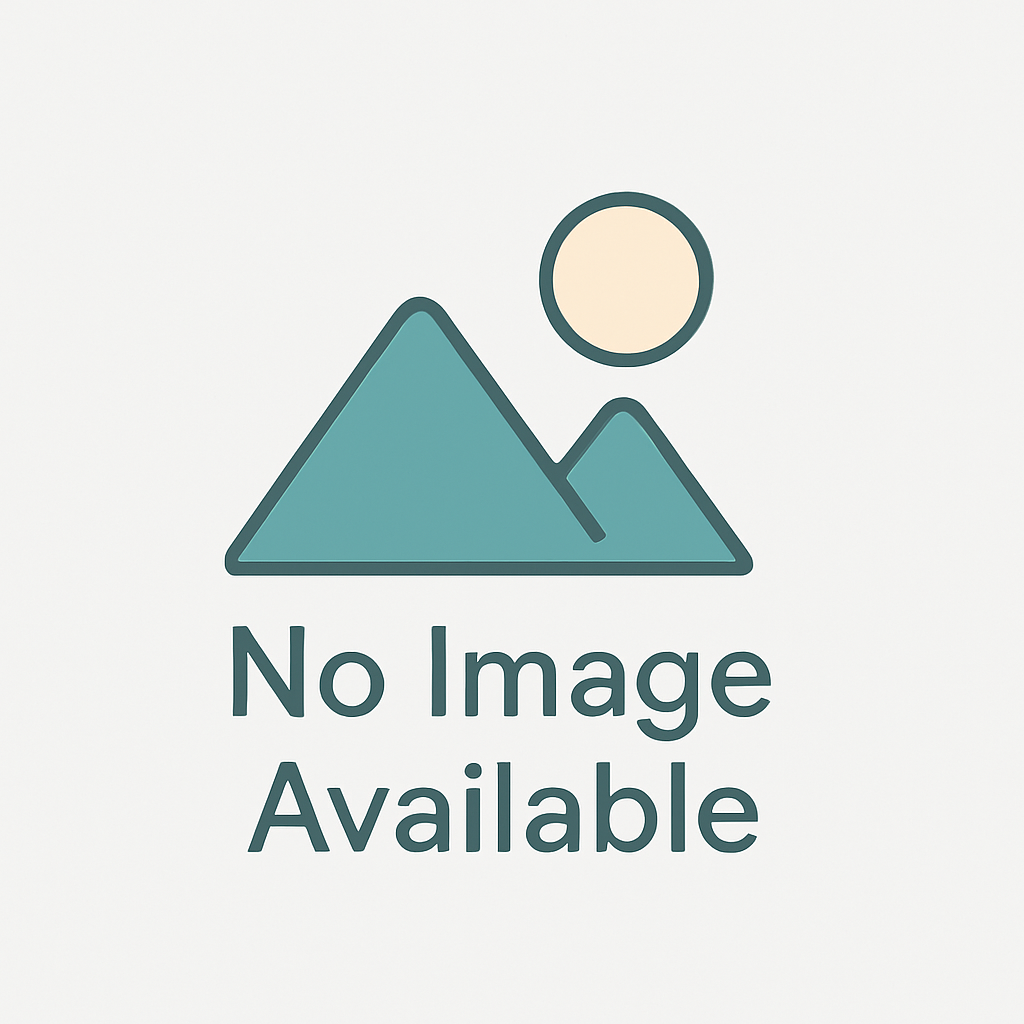
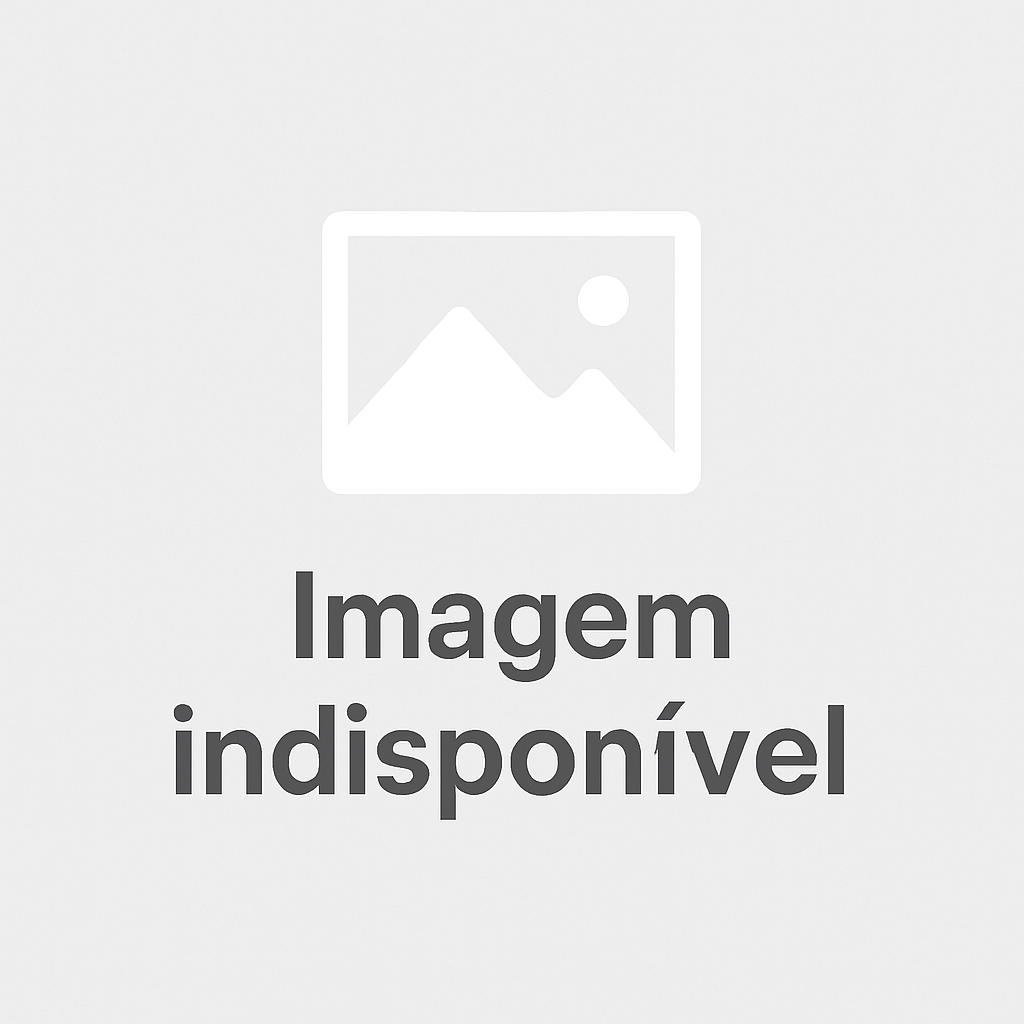
changes

Changed region(s): [[0.1562, 0.1875, 0.8438, 0.8438]]

diff --git a/src/compoonents/Modal.jsx b/src/compoonents/Modal.jsx
@@ -10,10 +10,9 @@ export default function Modal({ place, onClose }) {
     if (Array.isArray(sizes) && sizes.length > 0) {
       return sizes[sizes.length - 1].url;
     }
-    return '/placeholder.png';
+    return '/placeholder-small.jpg';
   })();
 
-  
   const name = detalhe?.overview?.name || place.nome || 'Restaurante';
   const rating = detalhe?.overview?.rating || place.nota || null;
   const address = detalhe?.location?.address?.address || 'Endereço não informado';
@@ -35,12 +34,16 @@ export default function Modal({ place, onClose }) {
   const [activeTab, setActiveTab] = useState('sobre');
 
   return (
-    <div className="fixed inset-0 bg-black bg-opacity-70 flex items-center justify-center z-50 overflow-auto p-6">
+    <div
+      className="fixed inset-0 bg-black bg-opacity-70 z-50 overflow-auto p-4 sm:p-6 flex justify-center items-center"
+      onClick={onClose}
+    >
       <motion.div
+        onClick={(e) => e.stopPropagation()}
         initial={{ scale: 0.7 }}
         animate={{ scale: 1 }}
         exit={{ scale: 0 }}
-        className="bg-white rounded-lg overflow-hidden shadow-lg w-full max-w-4xl relative"
+        className="bg-white rounded-lg overflow-hidden shadow-lg w-full max-w-4xl relative mx-auto"
       >
         <button
           onClick={onClose}
@@ -53,24 +56,23 @@ export default function Modal({ place, onClose }) {
           src={imageUrl}
           alt={name}
           onError={(e) => {
-            e.target.src = '/placeholder.png';
+            e.target.src = '/placeholder-small.jpg';
             e.target.className = 'w-full h-60 object-cover';
           }}
           className="w-full h-60 object-cover"
         />
 
-        <div className="p-6">
-          <h2 className="text-3xl font-bold mb-1">{name}</h2>
+        <div className="p-4 sm:p-6">
+          <h2 className="text-2xl sm:text-3xl font-bold mb-1">{name}</h2>
           {rating && <p className="text-yellow-500 mb-1">⭐ {rating}</p>}
-          <p className="text-gray-600 mb-4">{address}{neighborhood && ` - ${neighborhood}`}</p>
+          <p className="text-gray-600 mb-4 text-sm sm:text-base">{address}{neighborhood && ` - ${neighborhood}`}</p>
 
-          {/* Abas */}
-          <div className="flex gap-2 border-b mb-4">
+          <div className="flex gap-2 border-b mb-4 overflow-x-auto text-sm sm:text-base">
             {tabs.map(tab => (
               <button
                 key={tab.id}
                 onClick={() => setActiveTab(tab.id)}
-                className={`px-4 py-2 ${activeTab === tab.id ? 'border-b-4 border-blue-500 font-semibold' : 'text-gray-500'}`}
+                className={`px-3 sm:px-4 py-2 whitespace-nowrap ${activeTab === tab.id ? 'border-b-4 border-blue-500 font-semibold' : 'text-gray-500'}`}
               >
                 {tab.label}
               </button>
